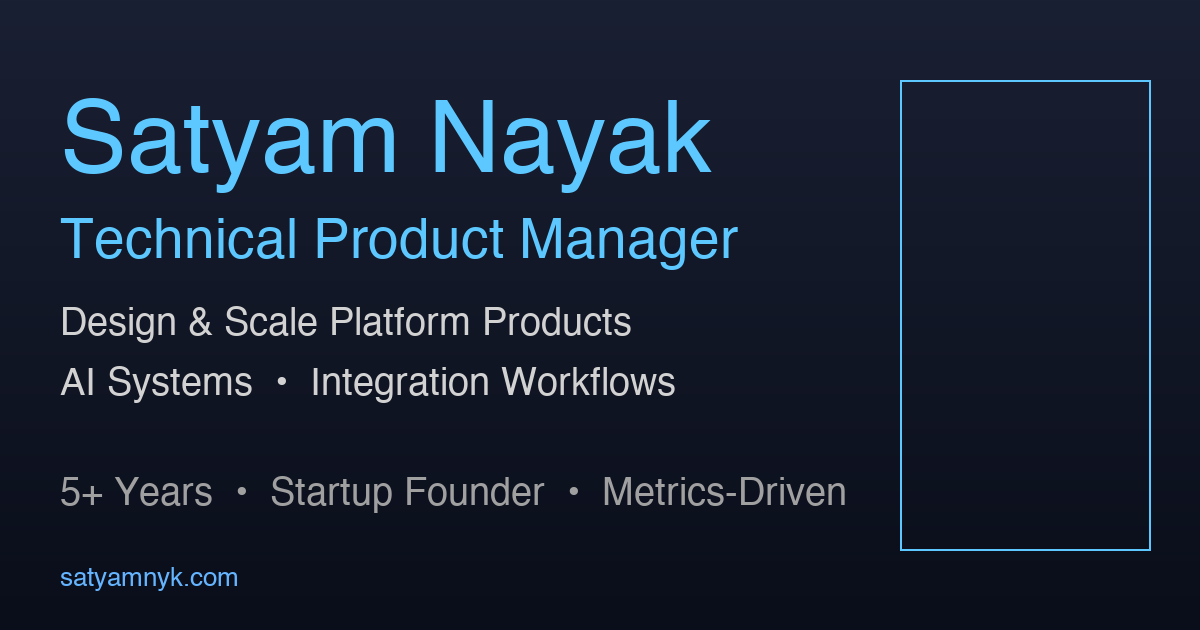
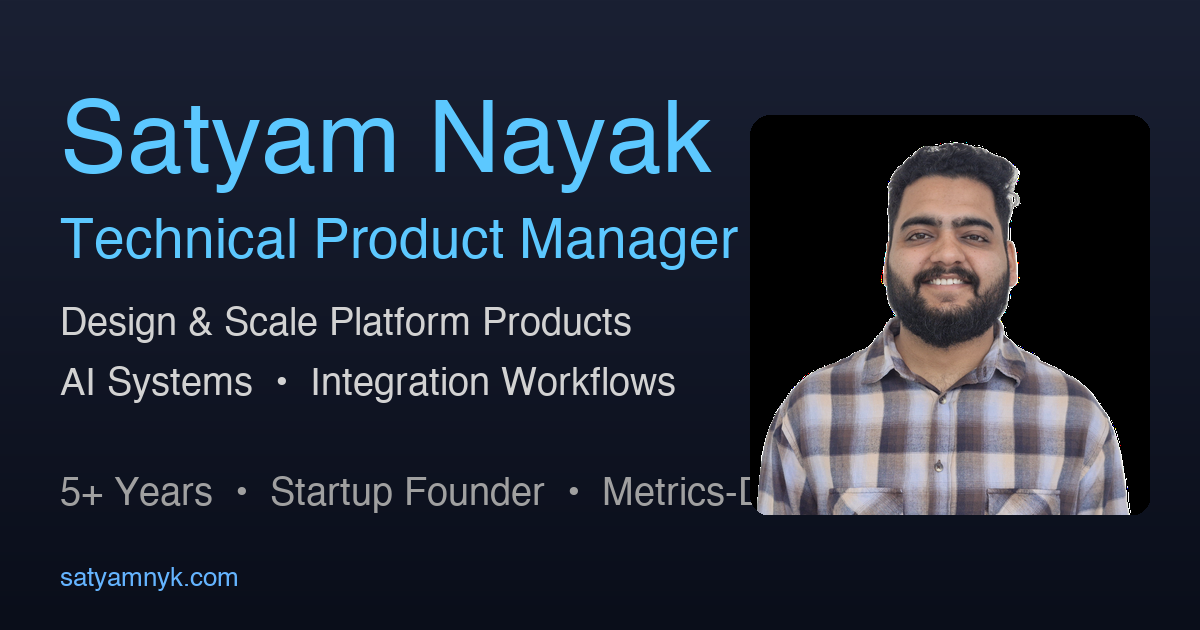
Update OG image: add profile photo in 1:1 ratio on right side, remove borders for cleaner preview card design

Changed region(s): [[0.6167, 0.181, 0.9867, 0.8746], [0.74, 0.1206, 0.9558, 0.1508]]

diff --git a/create_og_image.py b/create_og_image.py
@@ -27,13 +27,8 @@ cyan = (92, 200, 255)
 light_gray = (210, 210, 210)
 gray = (160, 160, 160)
 light_cyan = (100, 180, 255)
-purple = (124, 58, 237)
 
-# Draw accent circles (circles with transparency effect via lighter color)
-draw.ellipse([750, -80, 1350, 520], outline=cyan, width=0)
-draw.ellipse([-80, 300, 420, 800], outline=purple, width=0)
-
-# Draw main content
+# Draw main content on left side
 draw.text((60, 95), "Satyam Nayak", font=title_font, fill=cyan)
 draw.text((60, 215), "Technical Product Manager", font=role_font, fill=cyan)
 
@@ -44,9 +39,36 @@ draw.text((60, 475), "5+ Years  •  Startup Founder  •  Metrics-Driven", font
 
 draw.text((60, 565), "satyamnyk.com", font=url_font, fill=light_cyan)
 
-# Draw accent border rectangle
-draw.rectangle([900, 80, 1150, 550], outline=cyan, width=2)
+# Load and add profile image on right side (1:1 ratio square)
+try:
+    profile = Image.open('assets/profile.png')
+    
+    # Create square crop from profile
+    width, height = profile.size
+    size = min(width, height)
+    left = (width - size) // 2
+    top = (height - size) // 2
+    profile_square = profile.crop((left, top, left + size, top + size))
+    
+    # Resize to fit in right side (400x400 square)
+    profile_square = profile_square.resize((400, 400), Image.Resampling.LANCZOS)
+    
+    # Add rounded corners
+    mask = Image.new('L', (400, 400), 0)
+    mask_draw = ImageDraw.Draw(mask)
+    mask_draw.rounded_rectangle((0, 0, 400, 400), radius=20, fill=255)
+    profile_square.putalpha(mask)
+    
+    # Paste image on right side, centered vertically
+    x_pos = 750
+    y_pos = (630 - 400) // 2
+    img.paste(profile_square, (x_pos, y_pos), profile_square)
+    
+except Exception as e:
+    print(f"Note: Could not load profile image: {e}")
 
 # Save as PNG
+img = img.convert('RGB')  # Remove alpha channel for final PNG
 img.save('assets/og-image.png', 'PNG', quality=95)
-print("✅ PNG OG image created successfully!")
+print("✅ PNG OG image with profile photo created successfully!")
+
